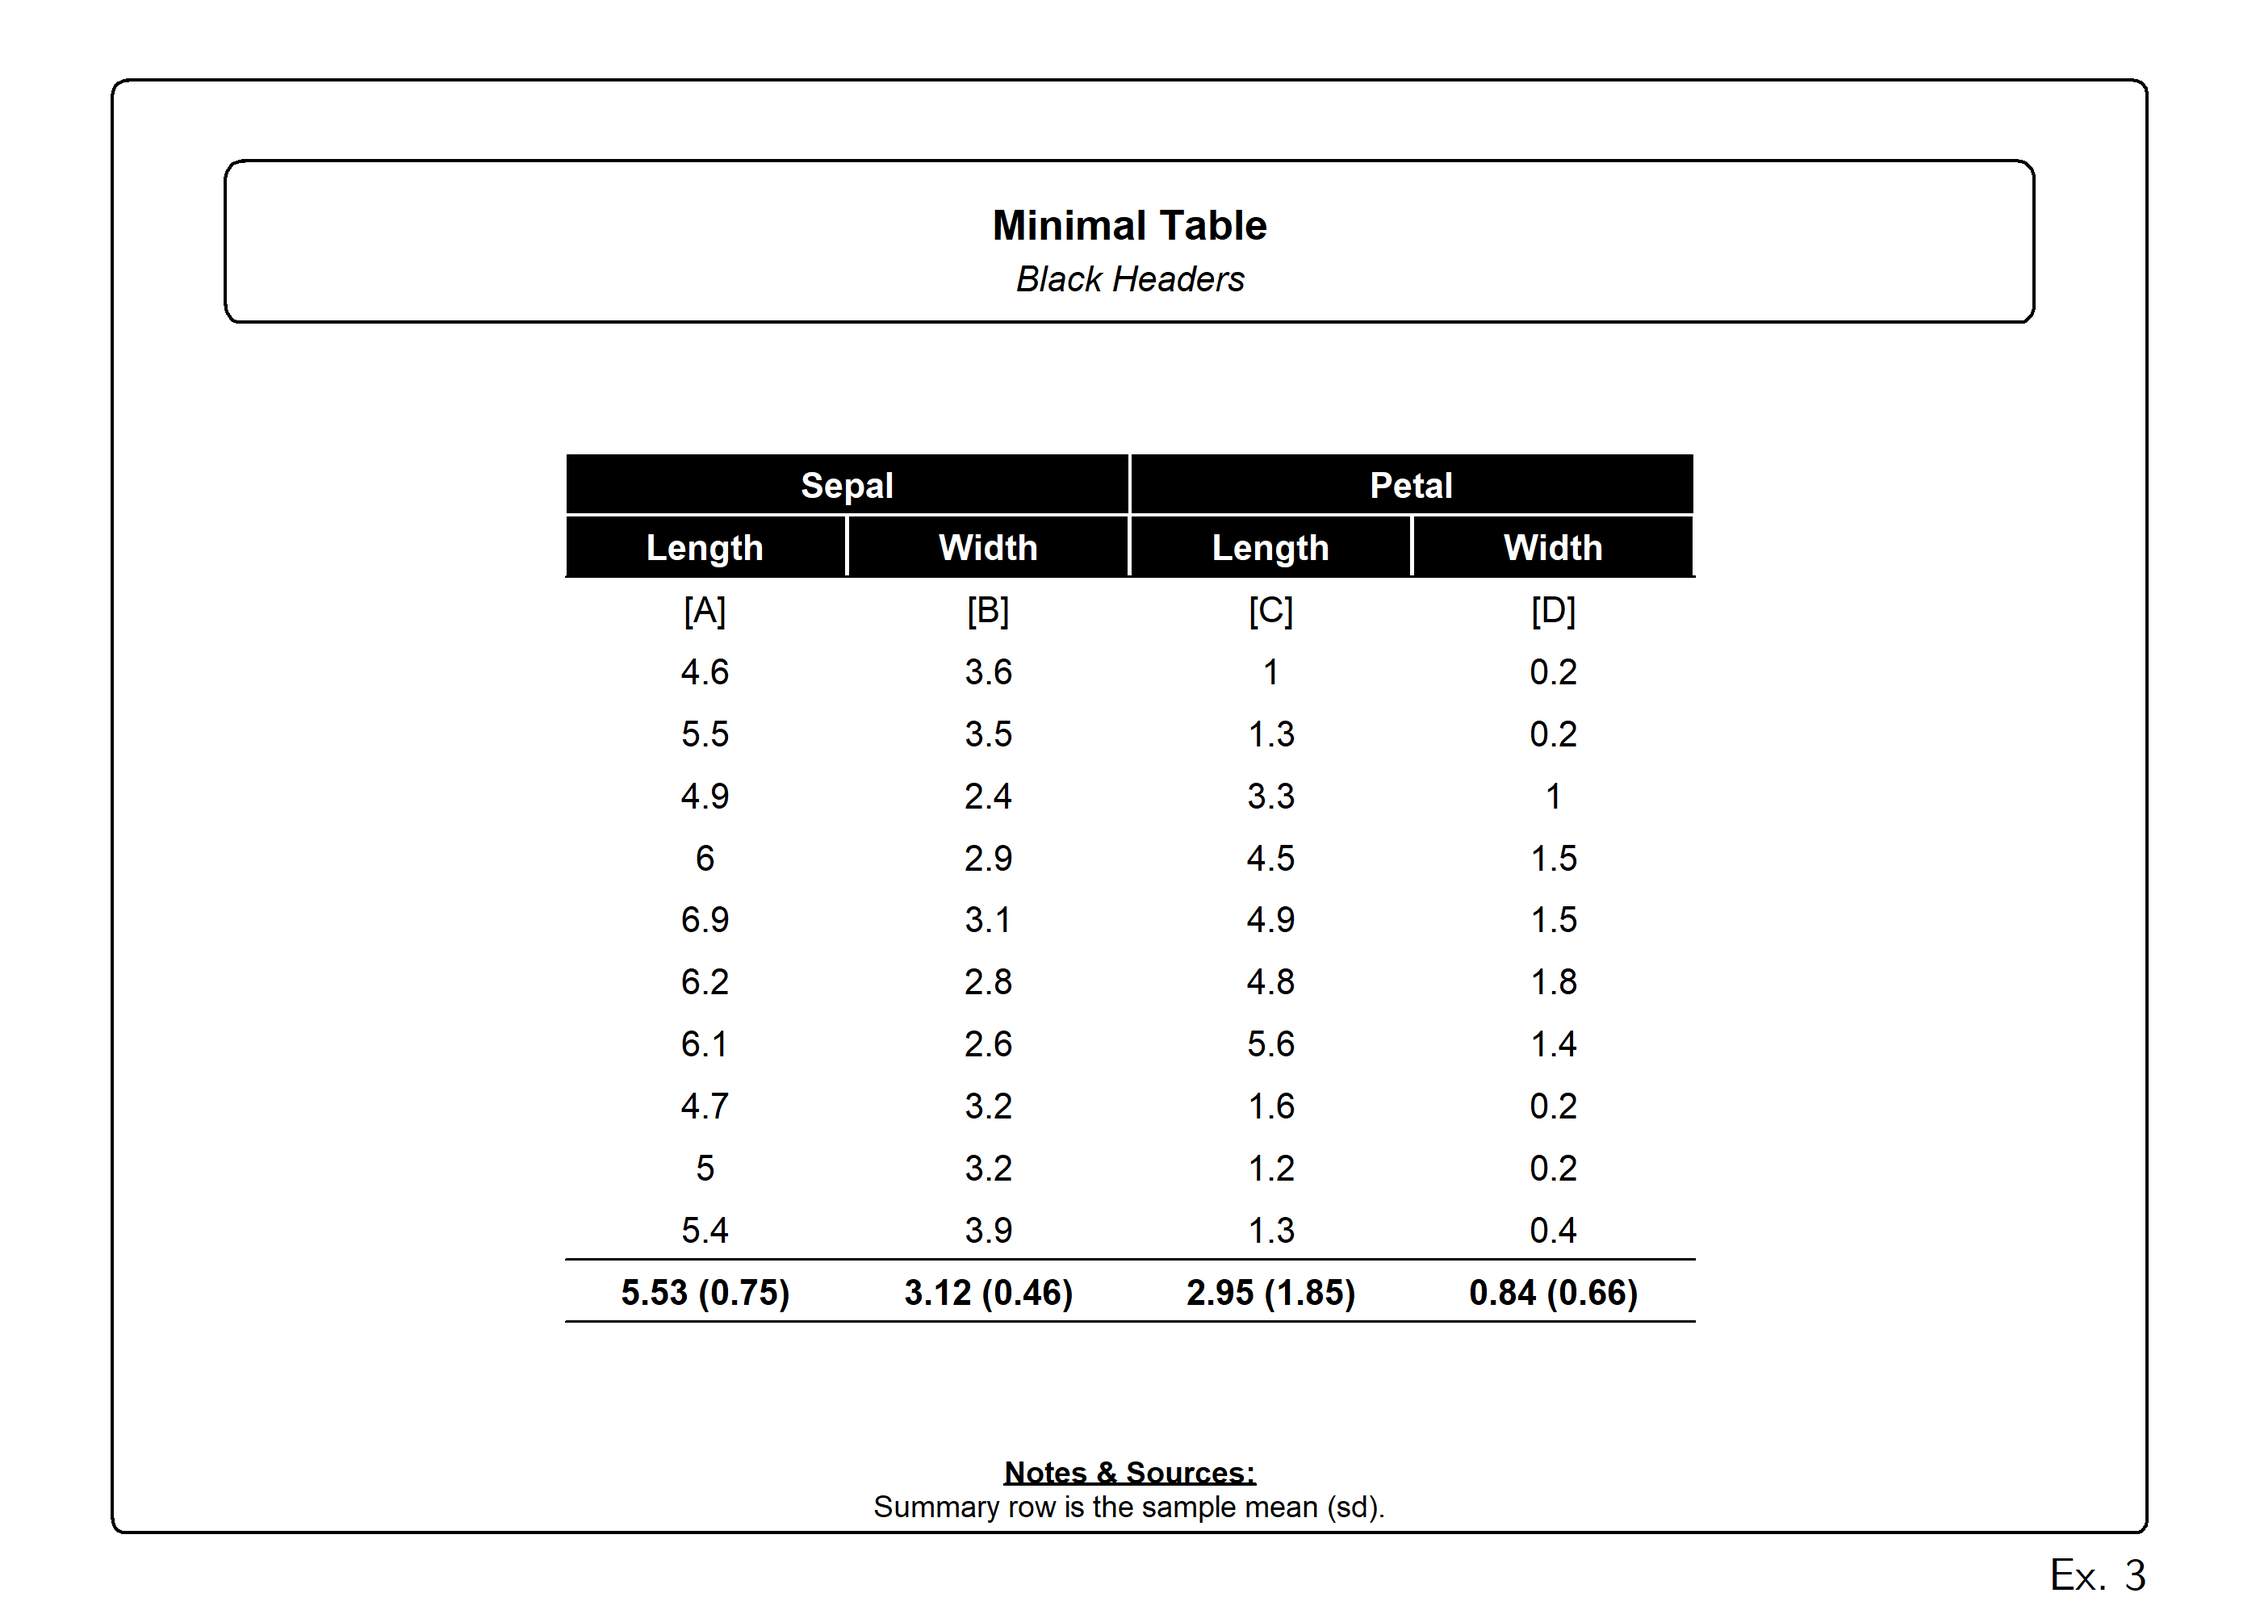
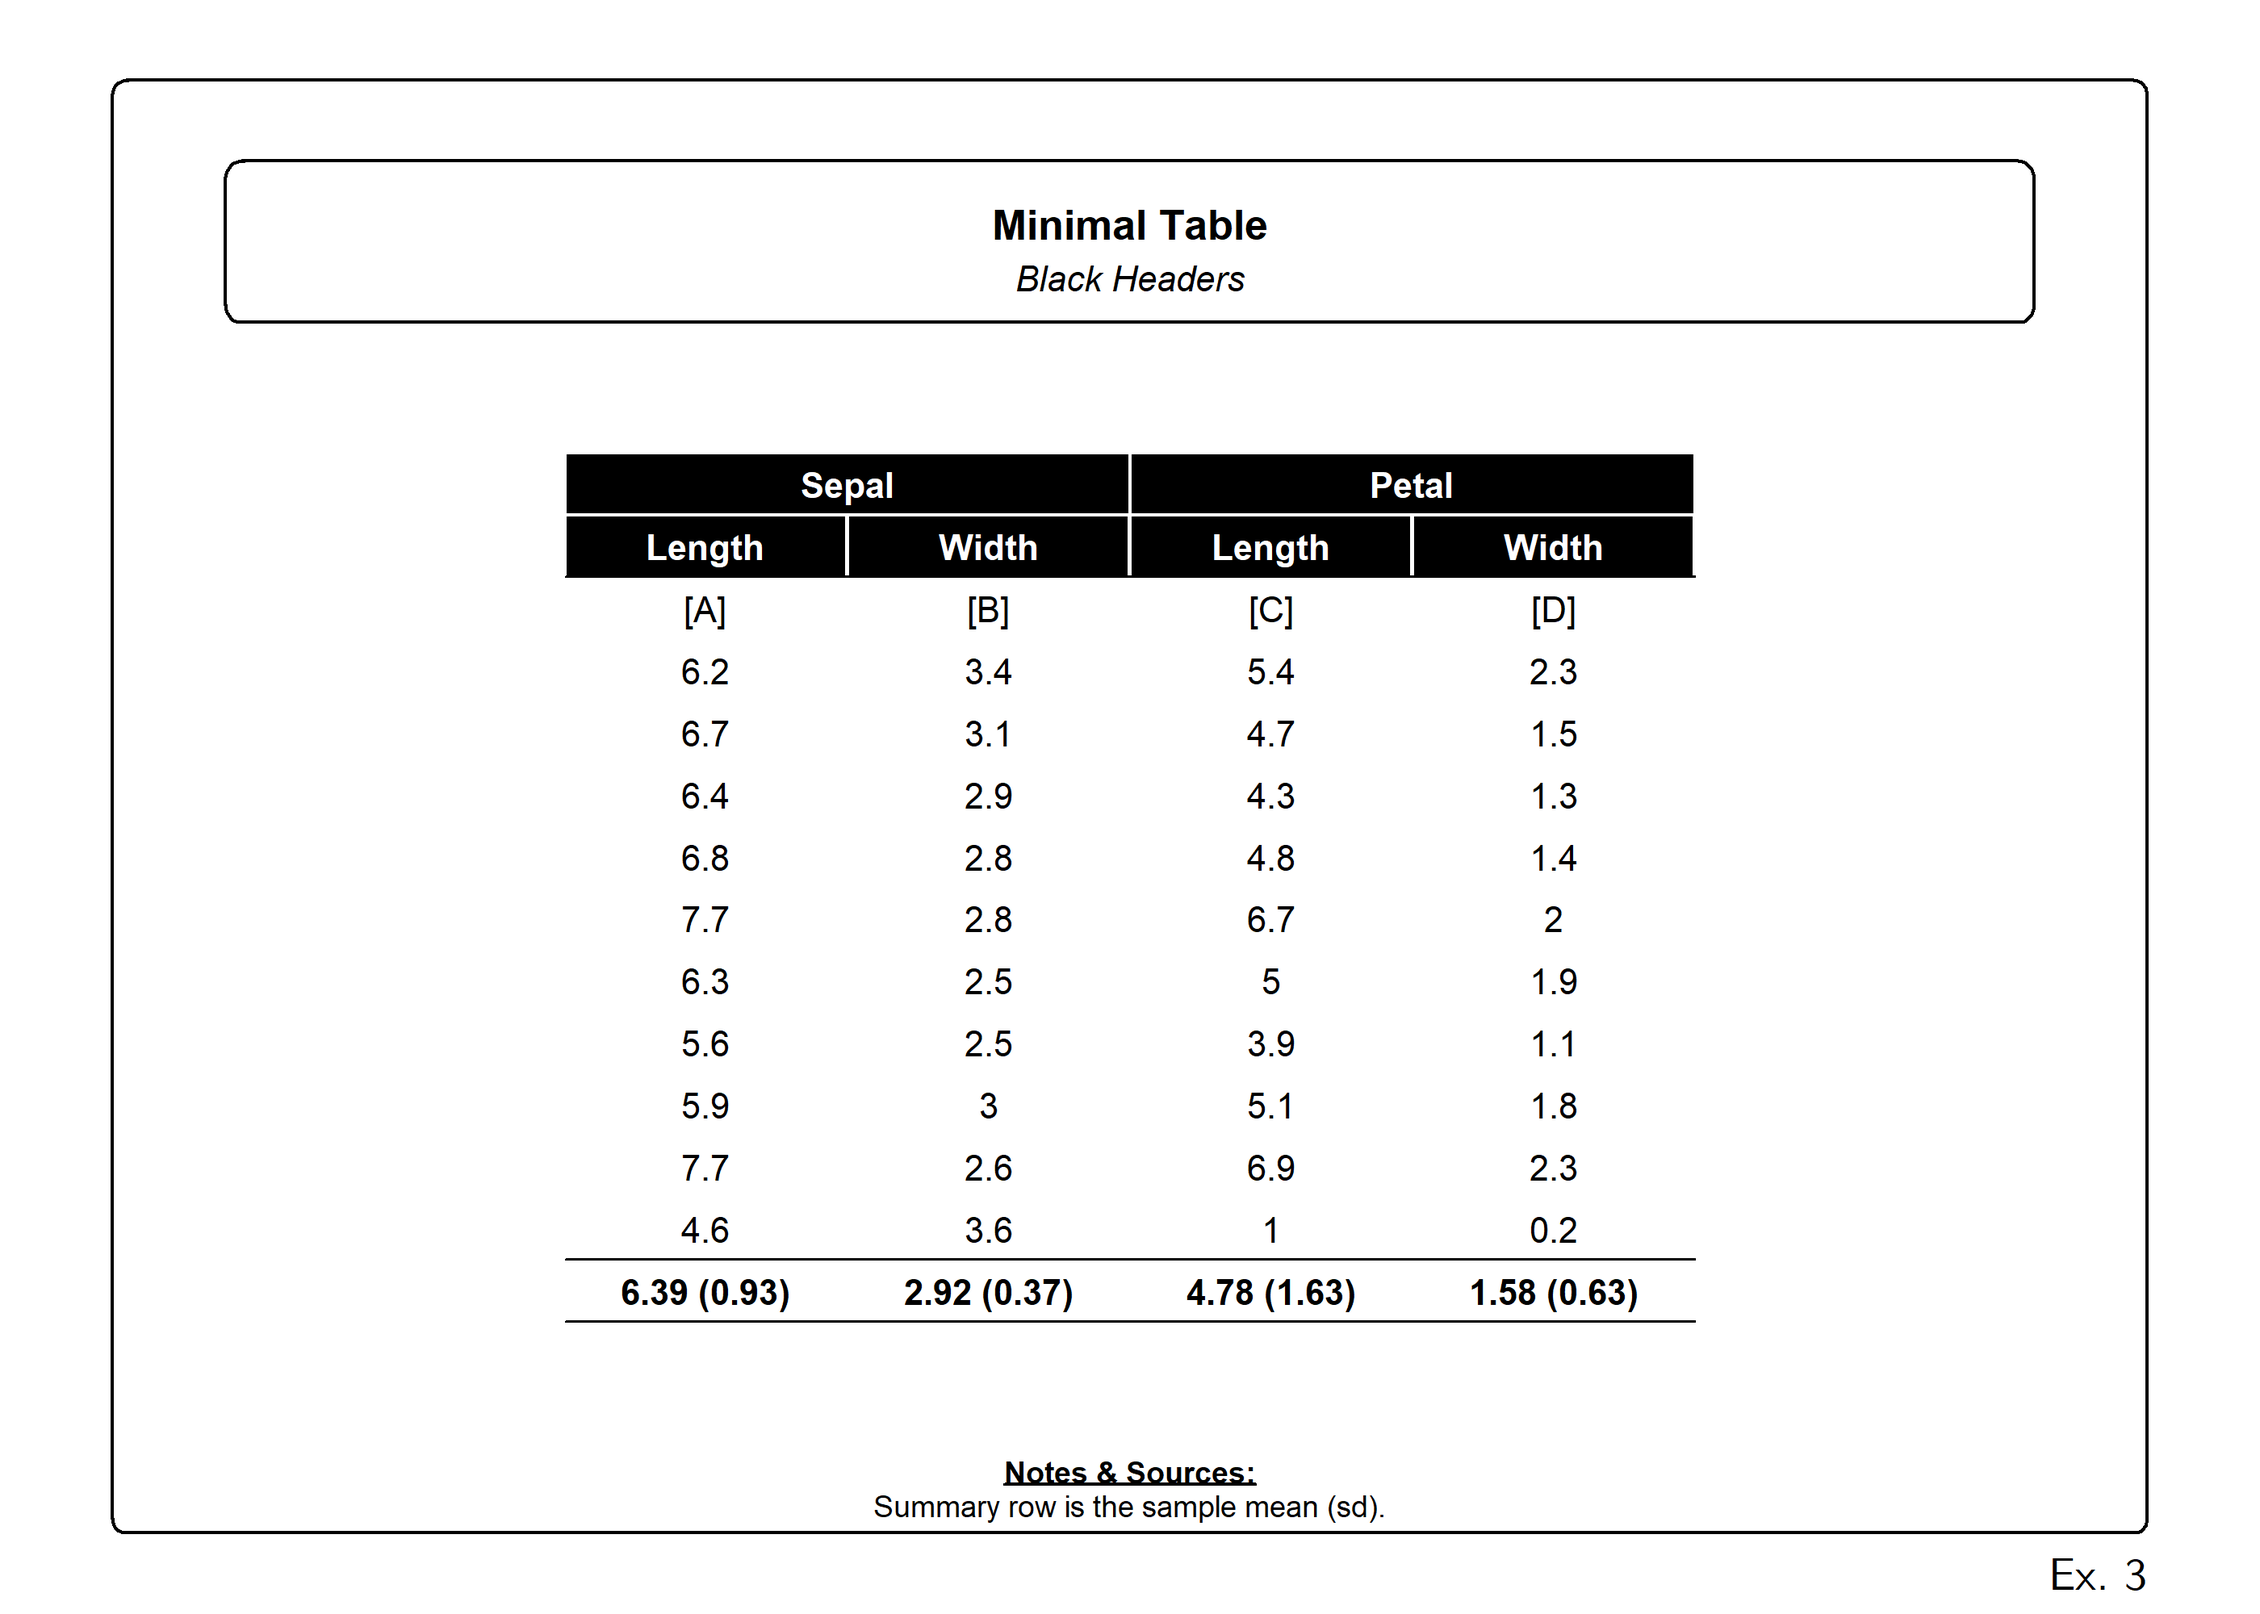
source

diff --git a/README.md b/README.md
@@ -47,17 +47,17 @@ setnames(DT, rep(c("Length","Width"),2))
 print(DT)
 #>          Length       Width      Length       Width
 #>          <char>      <char>      <char>      <char>
-#>  1:         4.6         3.6           1         0.2
-#>  2:         5.5         3.5         1.3         0.2
-#>  3:         4.9         2.4         3.3           1
-#>  4:           6         2.9         4.5         1.5
-#>  5:         6.9         3.1         4.9         1.5
-#>  6:         6.2         2.8         4.8         1.8
-#>  7:         6.1         2.6         5.6         1.4
-#>  8:         4.7         3.2         1.6         0.2
-#>  9:           5         3.2         1.2         0.2
-#> 10:         5.4         3.9         1.3         0.4
-#> 11: 5.53 (0.75) 3.12 (0.46) 2.95 (1.85) 0.84 (0.66)
+#>  1:         6.2         3.4         5.4         2.3
+#>  2:         6.7         3.1         4.7         1.5
+#>  3:         6.4         2.9         4.3         1.3
+#>  4:         6.8         2.8         4.8         1.4
+#>  5:         7.7         2.8         6.7           2
+#>  6:         6.3         2.5           5         1.9
+#>  7:         5.6         2.5         3.9         1.1
+#>  8:         5.9           3         5.1         1.8
+#>  9:         7.7         2.6         6.9         2.3
+#> 10:         4.6         3.6           1         0.2
+#> 11: 6.39 (0.93) 2.92 (0.37) 4.78 (1.63) 1.58 (0.63)
 ```
 
 ## Example 1
@@ -169,6 +169,9 @@ invisible(dev.off()) # close pdf stream
 ## Example 2
 
 ### gtables can be easily and flexibly formatted with the below functions
+
+These functions extend those presented in
+[gridExtra/vignettes/tableGrob.html](https://cran.r-project.org/web/packages/gridExtra/vignettes/tableGrob.html)
 
 ``` r
 # use grid.table.minimal() to convert DT to gtable object w/ minimal styling applied
